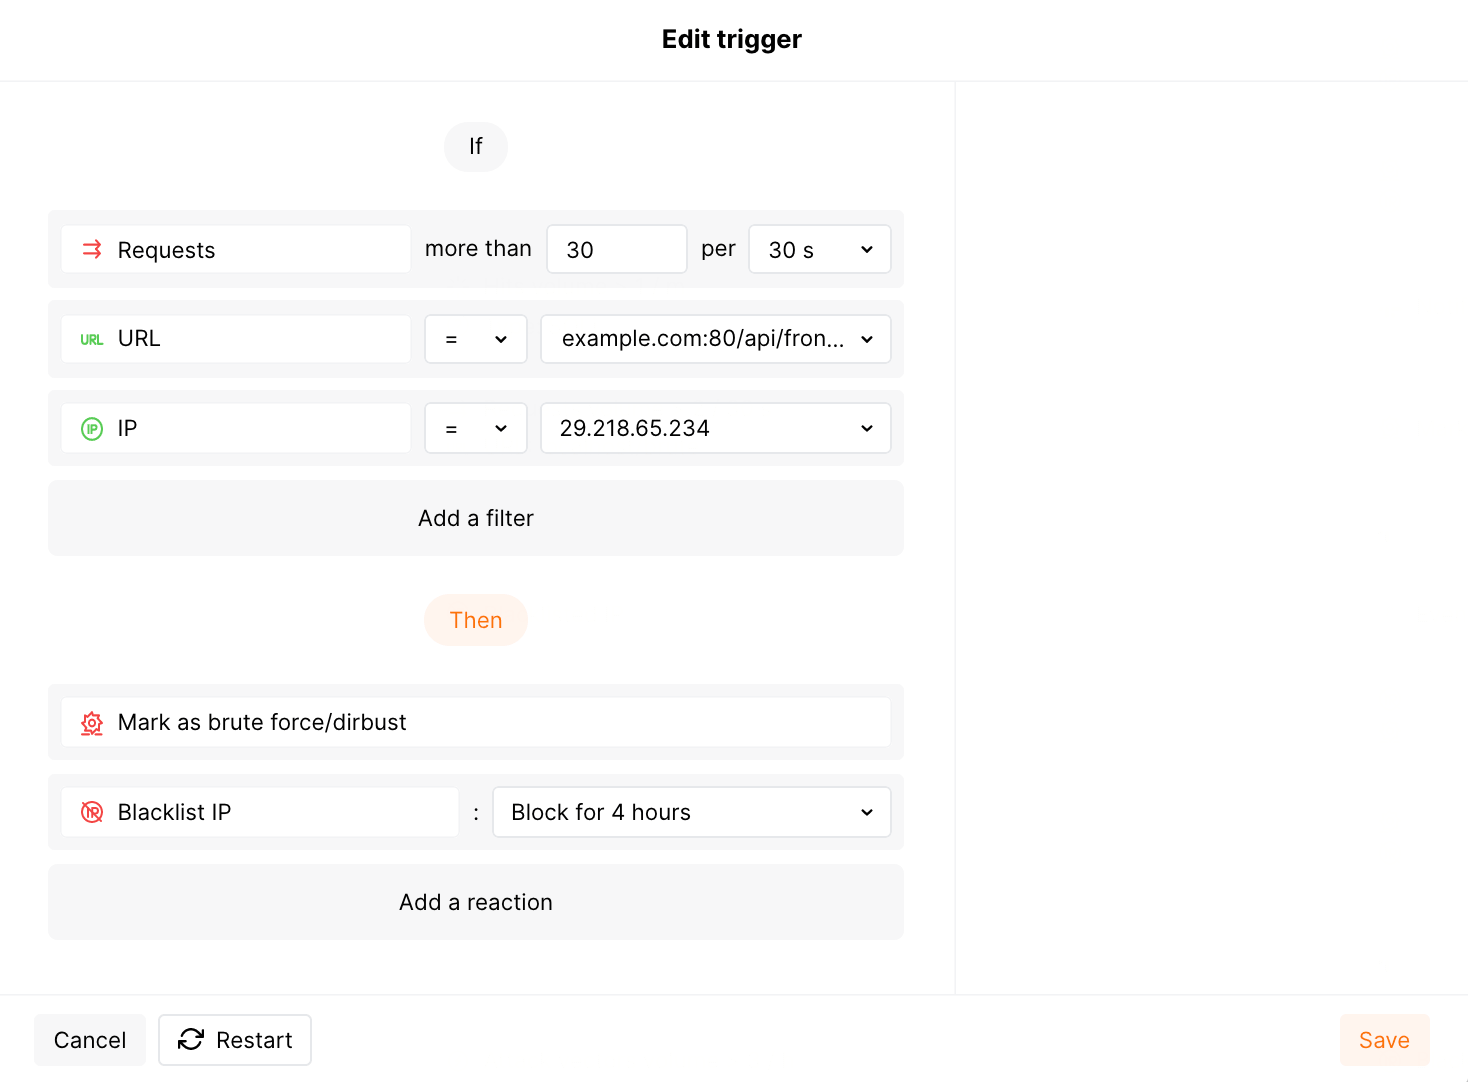
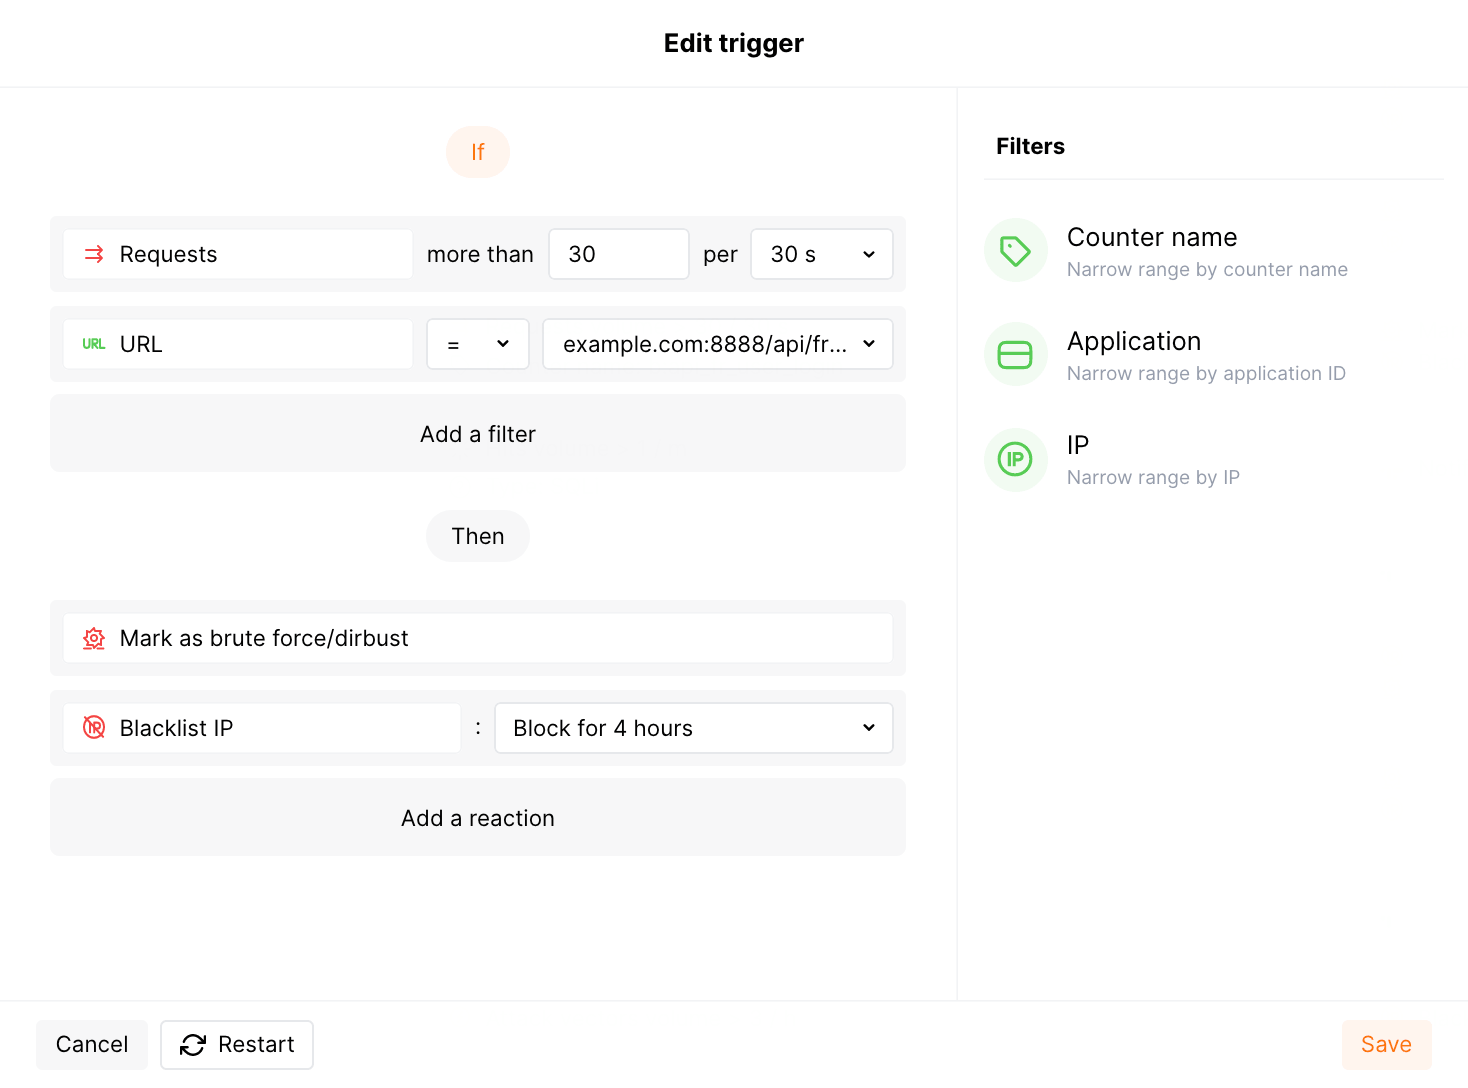
DOCS-1095 mention that URL filter in trigger accepts any value except 80, 44

diff --git a/docs/2.16/admin-en/configuration-guides/protecting-against-bruteforce.md b/docs/2.16/admin-en/configuration-guides/protecting-against-bruteforce.md
@@ -37,8 +37,8 @@ These instructions provide steps to configure brute force protection.
 
     URL can be set in one of the following ways:
 
-    * Via the **URL** filter. The value should correspond to the format `host:port/path`.
-    * In the [rule defining attack counter](../../user-guides/rules/define-counters.md). Created counter should be selected in the trigger filter **Counter name**.
+    * Via the [rule defining attack counter](../../user-guides/rules/define-counters.md) for any port listening for incoming requests. Created counter should be selected in the trigger filter **Counter name**.
+    * Via the **URL** trigger filter if the protected resource listens for incoming requests on port other than 80 or 443. The value should correspond to the format `host:port/path` (for example: `example.com:8888/api/frontend/login`).
 4. If required, set other trigger filters:
 
     * **Application** the requests are addressed to.
@@ -48,9 +48,9 @@ These instructions provide steps to configure brute force protection.
     * **Mark as brute force/dirbust** to mark requests sent after the treshold was exceeded as the brute‑force or dirbust attack. Requests will be marked as an attack but will not be blocked. To block requests, it is required to select one more reaction **Blacklist IP address**.
     * **Blacklist IP address** and the period for IP address blocking to add IP addresses the malicious requests were sent from to the blacklist. All requests sent after the treshold was exceeded will be blocked by the WAF node.
 
-Example of a configured trigger:
+Example of a configured rule defining attack counter and trigger:
 
-![!Brute force/dirbust trigger example](../../images/user-guides/triggers/trigger-example5.png)
+![!Brute force/dirbust trigger example](../../images/user-guides/triggers/trigger-example6.png)
 
 Description of the provided example and other trigger examples used for brute force protection is available within the [link](../../user-guides/triggers/trigger-examples.md#mark-requests-as-bruteforce-or-dirbust-attack-if-31-or-more-requests-were-sent-to-the-protected-resource).
 
@@ -58,15 +58,17 @@ You can configure several triggers for brute force protection.
 
 ## Testing the configuration of brute force protection
 
-1. Send the number of requests that exceeds the configured threshold to the protected URL. For example, 50 requests to `example.com/login`:
+1. Send the number of requests that exceeds the configured threshold to the protected URL. For example, 50 requests to `example.com/api/frontend/login`:
 
     ```bash
-    for (( i=0 ; $i<51 ; i++ )) ; do curl https://example.com/login ; done
+    for (( i=0 ; $i<51 ; i++ )) ; do curl https://example.com/api/frontend/login ; done
     ```
 2. Open the Wallarm Console → section **Blacklist** and check that IP address the requests were sent from is blocked for the period configured in the trigger.
 3. Open the section **Events** and check that requests are displayed in the list as the brute‑force or dirbust attack.
 
     ![!Dirbust attack in the interface](../../images/user-guides/events/dirbust-attack.png)
+
+    The number of displayed requests corresponds to the number of requests sent after the trigger treshold was exceeded ([more details on detecting behavioral attacks](../../about-wallarm-waf/protecting-against-attacks.md#behavioral-attacks)). If this number is higher than 5, request sampling is applied and request details are displayed only for the first 5 requests ([more details on requests sampling](../../user-guides/events/analyze-attack.md#sampling-of-requests-in-bruteforce-attacks)).
 
     To search for attacks, you can use the filters, for example: `dirbust` for dirbust attacks, `brute` for brute‑force attacks. All filters are described in the [instructions on search using](../../user-guides/search-and-filters/use-search.md).
 

diff --git a/docs/2.16/user-guides/triggers/trigger-examples.md b/docs/2.16/user-guides/triggers/trigger-examples.md
@@ -10,27 +10,31 @@ You can perform all available trigger actions: edit, disable, delete, or copy th
 
 ## Mark requests as brute‑force or dirbust attack if 31 or more requests were sent to the protected resource
 
-### With filters by URL and IP
+### With the filter by the counter name
 
-If 31 or more requests were sent to `example.com:80/api/frontend/login` from the IP address `29.218.65.234` in 30 seconds:
-
-* These requests will be marked as [brute‑force attack](../../attacks-vulns-list.md#bruteforce-attack) and IP `29.218.65.234` will be added to the blacklist.
-* If the code 404 was returned in the response to all requests, these requests will be marked as [dirbust (forced browsing) attack](../../attacks-vulns-list.md#forced-browsing) and IP `29.218.65.234` will be added to the blacklist.
-
-!!! info "URL value format"
-    The format of the URL filter value is `host:port/path`. The scheme should be omitted.
-
-![!Brute force / dirbust trigger](../../images/user-guides/triggers/trigger-example5.png)
-
-### With filters by counter name and IP
-
-If 31 or more requests were sent to `https://example.com/api/frontend/login` from the IP address `29.218.65.234` in 30 seconds, these requests will be marked as [brute‑force attack](../../attacks-vulns-list.md#bruteforce-attack) and IP `29.218.65.234` will be added to the blacklist.
+If 31 or more requests were sent to `https://example.com/api/frontend/login` in 30 seconds, these requests will be marked as [brute‑force attack](../../attacks-vulns-list.md#bruteforce-attack) and the IP address from which requests were originated will be added to the blacklist.
 
 The request URL `https://example.com/api/frontend/login` is specified in the rule **Define brute-force attacks counter**.
 
 ![!Brute force trigger with counter](../../images/user-guides/triggers/trigger-example6.png)
 
 To mark requests as the dirbust (forced browsing) attack, it is required to use the rule **Define forced browsing attacks counter**.
+
+[Details on configuration of brute force protection →](../../admin-en/configuration-guides/protecting-against-bruteforce.md)
+
+### With the filter by URL
+
+If 31 or more requests were sent to `example.com:8888/api/frontend/login` in 30 seconds:
+
+* These requests will be marked as [brute‑force attack](../../attacks-vulns-list.md#bruteforce-attack) and the IP address from which requests were originated will be added to the blacklist.
+* If the code 404 was returned in the response to all requests, these requests will be marked as [dirbust (forced browsing) attack](../../attacks-vulns-list.md#forced-browsing) and the IP address from which requests were originated will be added to the blacklist.
+
+!!! info "URL value format"
+    The format of the URL filter value is `host:port/path`. The scheme should be omitted. `port` accepts any value except for 80 and 443.
+
+![!Brute force / dirbust trigger](../../images/user-guides/triggers/trigger-example5.png)
+
+[Details on configuration of brute force protection →](../../admin-en/configuration-guides/protecting-against-bruteforce.md)
 
 ## Slack notification if 2 or more SQLi hits were detected in one minute
 

diff --git a/docs/2.16/user-guides/triggers/triggers.md b/docs/2.16/user-guides/triggers/triggers.md
@@ -53,7 +53,11 @@ Filters are used for condition detailing. For example, you can set up reactions 
 
 The following filters are available:
 
-* **URL** (only for the number of requests): full URL to which the request was sent. URL format is `host:port/path` for any `port` value. For example: `example.com:80/login` or `255.255.255.255:80/login`.
+* **URL** (only for the number of requests): full URL to which the request was sent. This filter is used if the protected resource listens for incoming requests on port other than 80 or 443. If the resource listens for incoming requests on port 80 orr 443, please configure the URL via the **Counter name** filter.
+
+    URL format is `host:port/path`. The scheme should be omitted. `port` accepts any value except for 80 and 443.
+    
+    For example: `example.com:8888/login` or `255.255.255.255:8888/login`.
 
     !!! warning "Compatibility with other filters"
         This filter can be used with all available filters except **Counter name**.
